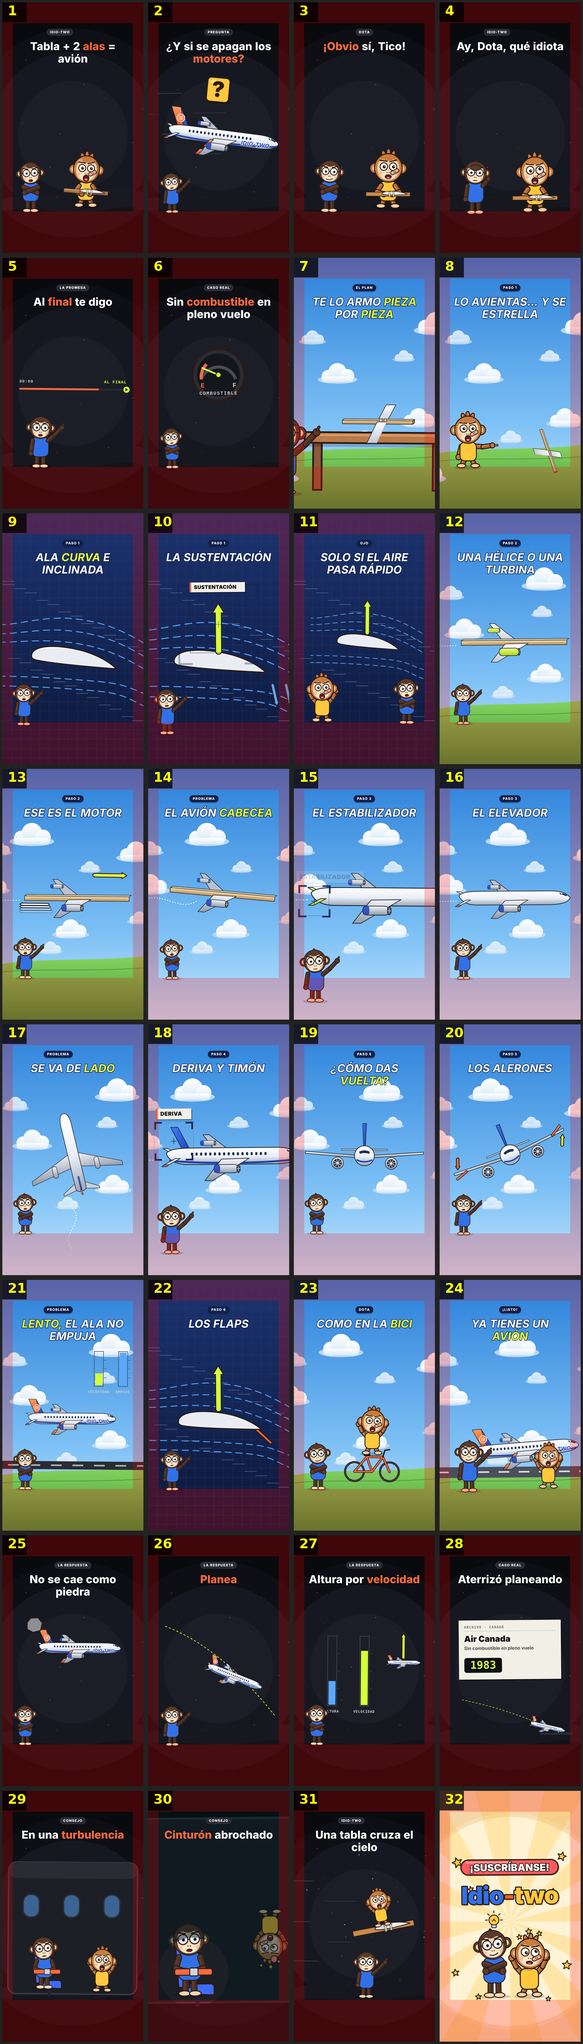
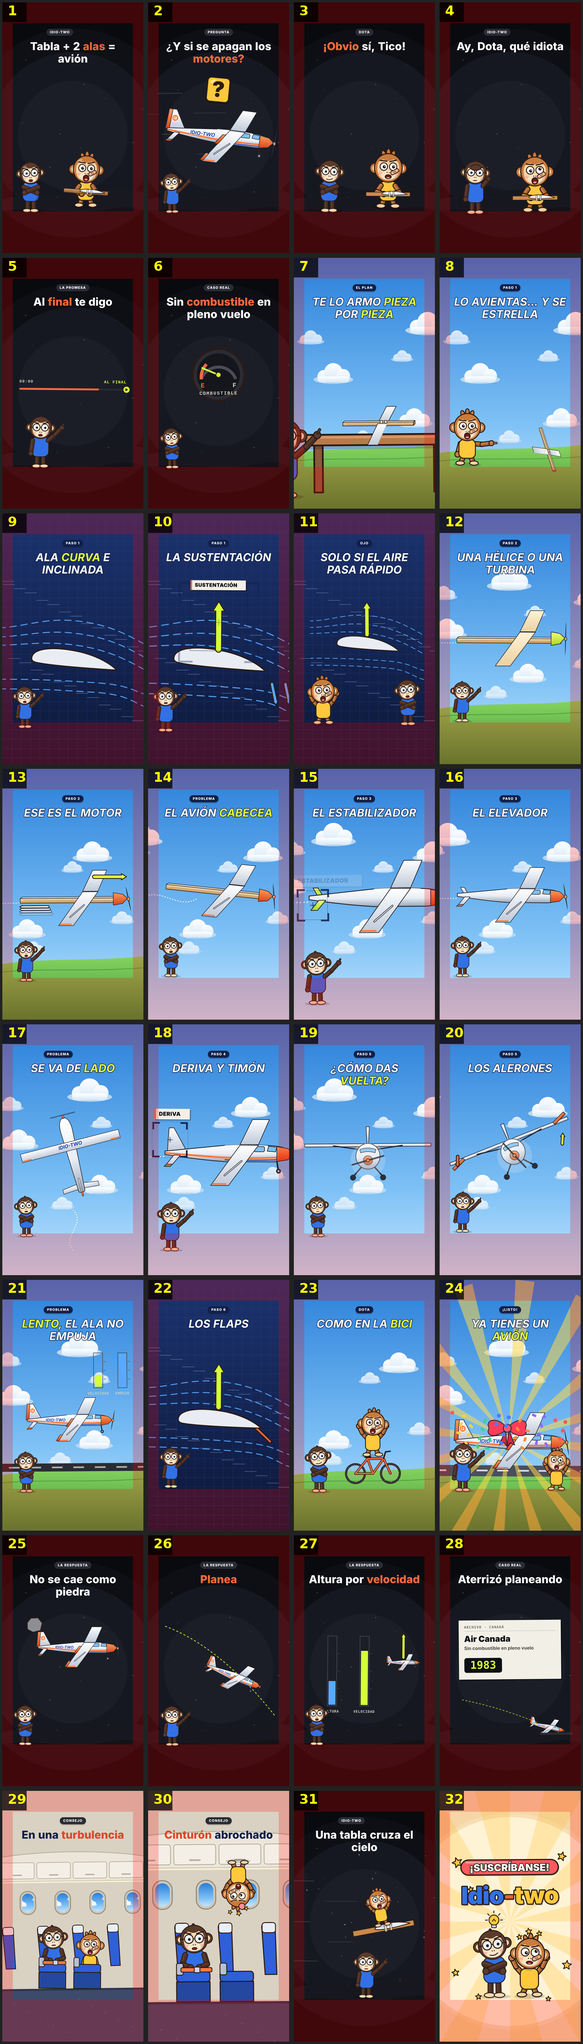
Avion v3: light plane like the reference with IDIO-TWO livery, livelier sky scenes, prize reveal, real cabin with seats
Claude-Session: https://claude.ai/code/session_01CCYL4pfB5svmsfTYwXD8rF

diff --git a/videos/avion/visuals.ts b/videos/avion/visuals.ts
@@ -34,6 +34,7 @@ function vaShade(hex: string, t: number) {
 function vaBackdrop(s: Scene, $: Va$) {
   const sec0 = document.getElementById('sc-' + s.id);   // titles in this style: the key word just changes colour (no box)
   if (sec0) { sec0.style.setProperty('--accent', 'transparent'); sec0.style.setProperty('--accent-text', AVP.orange); sec0.style.setProperty('--label', '#2a2c35'); sec0.style.background = AVP.ink; }
+  if (sec0 && (s.id === 'turbu' || s.id === 'belt')) { sec0.style.setProperty('--ink', '#10204a'); sec0.style.setProperty('--accent-text', '#e0452a'); }
   if (sec0 && VA_SKY.has(s.id)) {   // captions of the sky style: upper case, italic, white with a dark outline, the key word in lime
     sec0.style.setProperty('--accent-text', '#e6ff3a'); sec0.style.setProperty('--label', '#10204a'); sec0.style.background = '#2a7fd9';
     const t = sec0.querySelector('.title') as HTMLElement | null;
@@ -60,6 +61,12 @@ function vaBase(tl: VaTl, s: Scene, $: Va$, burst = true) {
   else if (document.querySelector($('.dust'))) avDust(tl, $, s);
   const i = SCENES.scenes.findIndex((x) => x.id === s.id);
   avCamera(tl, $, s, i % 2 ? 1 : -1);
+  if (VA_SKY.has(s.id)) {
+    const d = s.t1 - s.t0, dir = i % 2 ? 1 : -1;
+    tl.fromTo($('#camP'), { rotation: -2.5 * dir, svgOrigin: '540 1000' }, { rotation: 2.5 * dir, duration: d, ease: 'sine.inOut', immediateRender: false }, s.t0);
+    tl.fromTo($('#cam'), { y: 40 * dir }, { y: -40 * dir, duration: d, ease: 'sine.inOut', immediateRender: false }, s.t0);
+    if (document.querySelector($('#pl'))) tl.fromTo($('#pl'), { x: -70 }, { x: 70, duration: d, ease: 'sine.inOut', immediateRender: false }, s.t0);
+  }
   for (const [id, kind] of [['tk', 'tico'], ['tc', 'tico'], ['d', 'dota'], ['dc', 'dota']] as const) if (document.querySelector($(`#${id}-rig`))) avAlive(tl, $, id, s, kind);
 }
 
@@ -95,7 +102,7 @@ defineVisuals({
     },
   },
   off: {
-    html: () => vaBurst(`${vaStreaks()}<g id="pl">${avLiner('p', 560, 1050, 0.95, AV_LINER_ALL)}</g>${avSmoke('sm', 430, 1110, 0.8, '#5b5e68')}${avQuestion('q', 540, 680, 0.75)}${vaTicoC('point')}`),
+    html: () => vaBurst(`${vaStreaks()}<g id="pl">${avCessna('p', 560, 1050, 0.95, AV_LINER_ALL)}</g>${avSmoke('sm', 430, 1110, 0.8, '#5b5e68')}${avQuestion('q', 540, 680, 0.75)}${vaTicoC('point')}`),
     anim(tl, s, K, $) {
       vaBase(tl, s, $); vaStreakRun(tl, $, s, 1.2); vaBob(tl, $, 'pl', s);
       vaFan(tl, $, '#p-fan, #p-fan2', s.t0, K('off') - s.t0, 10);
@@ -207,17 +214,17 @@ defineVisuals({
     },
   },
   turb: {
-    html: () => vaSky(`${avTrail('tr', 140, 1010)}<g id="pl">${avLiner('p', 560, 1000, 0.95, {}, 0)}</g>${vaTicoC('point')}`, true),
+    html: () => vaSky(`${avTrail('tr', 140, 1010)}<g id="pl">${avCessna('p', 530, 1000, 0.95, {}, 0)}</g>${vaTicoC('point')}`, true),
     anim(tl, s, K, $) {
       vaBase(tl, s, $); avSkyRun(tl, $, s); vaBob(tl, $, 'pl', s, 8);
-      avPaint(tl, $, 'p', 'eng', K('turb') - 0.1, ['engF']); avMorphTo(tl, $, 'p', 1, K('turb') + 0.3);
+      avPaint(tl, $, 'p', 'eng', K('turb') - 0.1); avMorphTo(tl, $, 'p', 1, K('turb') + 0.3);
       tl.fromTo($('#p-fan, #p-fan2'), { rotation: 0, svgOrigin: '0 0' }, { rotation: 3600, duration: s.t1 - K('turb'), ease: 'none' }, K('turb'));
       vaTalk(tl, $, 'tc', s, 'tico');
     },
   },
 
   motor: {
-    html: () => vaSky(`${avTrail('tr', 140, 1010)}<g id="air">${[0, 1, 2, 3].map((i) => avArrow(`ai${i}`, 430 - i * 20, 1040 + i * 18, 220 - i * 30, 1040 + i * 18, '#ffffff', 10)).join('')}</g><g id="pl">${avLiner('p', 560, 1000, 0.95, { eng: true }, 1)}</g>
+    html: () => vaSky(`${avTrail('tr', 140, 1010)}<g id="air">${[0, 1, 2, 3].map((i) => avArrow(`ai${i}`, 430 - i * 20, 1040 + i * 18, 220 - i * 30, 1040 + i * 18, '#ffffff', 10)).join('')}</g><g id="pl">${avCessna('p', 530, 1000, 0.95, { eng: true }, 1)}</g>
       ${avArrow('fwd', 700, 820, 940, 820, '#e6ff3a', 20)}<g id="dg">${avDota('d', 160, 1560, 0.6, 'down')}</g>${vaTicoC('point')}`, true),
     anim(tl, s, K, $) {
       vaBase(tl, s, $); avSkyRun(tl, $, s, 1.4); vaBob(tl, $, 'pl', s, 6);
@@ -231,7 +238,7 @@ defineVisuals({
   },
 
   pitch: {
-    html: () => vaSky(`<path id="wave" d="M-40 1010 C 120 920, 240 1100, 380 1010" fill="none" stroke="#fff" stroke-width="6" stroke-dasharray="4 16" stroke-linecap="round"/><g id="pl">${avLiner('p', 560, 1000, 0.95, { eng: true }, 1)}</g>${vaTicoC()}`),
+    html: () => vaSky(`<path id="wave" d="M-40 1010 C 120 920, 240 1100, 380 1010" fill="none" stroke="#fff" stroke-width="6" stroke-dasharray="4 16" stroke-linecap="round"/><g id="pl">${avCessna('p', 530, 1000, 0.95, { eng: true }, 1)}</g>${vaTicoC()}`),
     anim(tl, s, K, $) {
       vaBase(tl, s, $); avSkyRun(tl, $, s); tl.fromTo($('#p-fan, #p-fan2'), { rotation: 0, svgOrigin: '0 0' }, { rotation: 7200, duration: s.t1 - s.t0, ease: 'none' }, s.t0);
       tl.fromTo($('#p-body'), { rotation: -14, svgOrigin: '0 0' }, { rotation: 14, duration: 0.55, ease: 'sine.inOut', yoyo: true, repeat: Math.ceil((s.t1 - s.t0) / 0.55) }, s.t0);
@@ -242,7 +249,7 @@ defineVisuals({
   },
 
   stab: {
-    html: () => vaSky(`${avTrail('tr', 140, 1010)}<g id="pl">${avLiner('p', 560, 1000, 0.95, { eng: true }, 1)}</g>${vaTicoC('point')}`),
+    html: () => vaSky(`${avTrail('tr', 140, 1010)}<g id="pl">${avCessna('p', 530, 1000, 0.95, { eng: true }, 1)}</g>${vaTicoC('point')}`),
     anim(tl, s, K, $) {
       vaBase(tl, s, $); avSkyRun(tl, $, s); tl.fromTo($('#p-fan, #p-fan2'), { rotation: 0, svgOrigin: '0 0' }, { rotation: 7200, duration: s.t1 - s.t0, ease: 'none' }, s.t0);
       tl.fromTo($('#p-body'), { rotation: -12, svgOrigin: '0 0' }, { rotation: 12, duration: 0.55, ease: 'sine.inOut', yoyo: true, repeat: Math.ceil((K('stab') - s.t0) / 0.55) }, s.t0);
@@ -253,7 +260,7 @@ defineVisuals({
   },
 
   elev: {
-    html: () => vaSky(`${avTrail('tr', 140, 1010)}<g id="pl">${avLiner('p', 560, 1000, 0.95, { eng: true, stab: true }, 2)}</g>${vaTicoC('point')}`),
+    html: () => vaSky(`${avTrail('tr', 140, 1010)}<g id="pl">${avCessna('p', 530, 1000, 0.95, { eng: true, stab: true }, 2)}</g>${vaTicoC('point')}`),
     anim(tl, s, K, $) {
       vaBase(tl, s, $); avSkyRun(tl, $, s); tl.fromTo($('#p-fan, #p-fan2'), { rotation: 0, svgOrigin: '0 0' }, { rotation: 7200, duration: s.t1 - s.t0, ease: 'none' }, s.t0);
       avPaint(tl, $, 'p', 'elev', s.t0 + 0.2); avMorphTo(tl, $, 'p', 3, s.t0 + 0.6);
@@ -265,7 +272,7 @@ defineVisuals({
   },
 
   yaw: {
-    html: () => vaSky(`<path id="tw" d="M540 1700 C 440 1600, 640 1500, 540 1400" fill="none" stroke="#fff" stroke-width="6" stroke-dasharray="4 16" stroke-linecap="round"/>${avLinerTop('pt', 540, 1000, 0.8)}${vaTicoC()}`),
+    html: () => vaSky(`<path id="tw" d="M540 1700 C 440 1600, 640 1500, 540 1400" fill="none" stroke="#fff" stroke-width="6" stroke-dasharray="4 16" stroke-linecap="round"/>${avCessnaTop('pt', 540, 1000, 0.8)}${vaTicoC()}`),
     anim(tl, s, K, $) {
       vaBase(tl, s, $); avSkyRun(tl, $, s, 0.6);
       tl.fromTo($('#pt-body'), { rotation: -14, svgOrigin: '0 0' }, { rotation: 14, duration: 0.42, ease: 'sine.inOut', yoyo: true, repeat: Math.ceil((s.t1 - s.t0) / 0.42) }, s.t0);
@@ -276,7 +283,7 @@ defineVisuals({
   },
 
   fin: {
-    html: () => vaSky(`${avTrail('tr', 140, 1010)}<g id="pl">${avLiner('p', 560, 1000, 0.95, { eng: true, stab: true, elev: true }, 3)}</g>
+    html: () => vaSky(`${avTrail('tr', 140, 1010)}<g id="pl">${avCessna('p', 530, 1000, 0.95, { eng: true, stab: true, elev: true }, 3)}</g>
       <g id="shark" opacity="0"><path d="M770 1480 L860 1340 L880 1480Z" fill="#5b6a80" stroke="${AV.o}" stroke-width="6" stroke-linejoin="round"/><path d="M740 1490 q 30 -12 60 0 q 30 12 60 0 q 30 -12 60 0" fill="none" stroke="#fff" stroke-width="6"/></g>${vaTicoC('point')}`),
     anim(tl, s, K, $) {
       vaBase(tl, s, $); avSkyRun(tl, $, s); tl.fromTo($('#p-fan, #p-fan2'), { rotation: 0, svgOrigin: '0 0' }, { rotation: 7200, duration: s.t1 - s.t0, ease: 'none' }, s.t0);
@@ -289,7 +296,7 @@ defineVisuals({
   },
 
   roll: {
-    html: () => vaSky(`<g id="pl">${avLinerFront('pf', 540, 1000, 1, {})}</g>${vaTicoC()}`),
+    html: () => vaSky(`<g id="pl">${avCessnaFront('pf', 540, 1000, 1, {})}</g>${vaTicoC()}`),
     anim(tl, s, K, $) {
       vaBase(tl, s, $); avSkyRun(tl, $, s); vaBob(tl, $, 'pl', s, 8);
       vaFan(tl, $, '#pf-fan0', s.t0, s.t1 - s.t0, 10); vaFan(tl, $, '#pf-fan1', s.t0, s.t1 - s.t0, 10);
@@ -298,12 +305,12 @@ defineVisuals({
     },
   },
   ail: {
-    html: () => vaSky(`<g id="pl">${avLinerFront('pf', 540, 1000, 1, { ail: true })}</g>${avArrow('upA', 930, 930, 930, 850, '#e6ff3a', 14)}${avArrow('dnA', 150, 1030, 150, 1110, AVP.orange, 14)}${vaTicoC('point')}`),
+    html: () => vaSky(`<g id="pl">${avCessnaFront('pf', 540, 1000, 1, { ail: true })}</g>${avArrow('upA', 930, 930, 930, 850, '#e6ff3a', 14)}${avArrow('dnA', 150, 1030, 150, 1110, AVP.orange, 14)}${vaTicoC('point')}`),
     anim(tl, s, K, $) {
       vaBase(tl, s, $); avSkyRun(tl, $, s);
       vaFan(tl, $, '#pf-fan0', s.t0, s.t1 - s.t0, 12); vaFan(tl, $, '#pf-fan1', s.t0, s.t1 - s.t0, 12);
-      tl.to($('#pf-ailR'), { rotation: -24, svgOrigin: '340 -10', duration: 0.3, ease: 'power2.out' }, K('up') - 0.1);
-      tl.to($('#pf-ailL'), { rotation: -24, svgOrigin: '-340 -10', duration: 0.3, ease: 'power2.out' }, K('up') + 0.6);
+      tl.to($('#pf-ailR'), { rotation: -24, svgOrigin: '360 -93', duration: 0.3, ease: 'power2.out' }, K('up') - 0.1);
+      tl.to($('#pf-ailL'), { rotation: -24, svgOrigin: '-360 -93', duration: 0.3, ease: 'power2.out' }, K('up') + 0.6);
       avPopIn(tl, $('#upA'), K('up') + 0.1); avPopIn(tl, $('#dnA'), K('up') + 0.8);
       tl.to($('#pf-body'), { rotation: -22, svgOrigin: '0 0', duration: 0.9, ease: 'power2.inOut' }, K('bank') - 0.2);
       vaTalk(tl, $, 'tc', s, 'tico');
@@ -311,7 +318,7 @@ defineVisuals({
   },
   slow: {
     html: () => vaSky(`<rect x="0" y="1380" width="1080" height="60" fill="#2a2c35"/>${[...Array(7)].map((_, i) => `<rect x="${60 + i * 160}" y="1404" width="80" height="12" fill="#e8e6dc" opacity="0.7"/>`).join('')}
-      <g id="pl">${avLiner('p', 520, 1000, 0.75, AV_LINER_ALL)}</g>${avBar('bv', 730, 820, 'VELOCIDAD', AVP.lime, 260)}${avBar('bl', 910, 820, 'EMPUJE', AVP.air, 260)}${vaTicoC()}`, true),
+      <g id="pl">${avCessna('p', 520, 1000, 0.75, AV_LINER_ALL)}</g>${avBar('bv', 730, 820, 'VELOCIDAD', AVP.lime, 260)}${avBar('bl', 910, 820, 'EMPUJE', AVP.air, 260)}${vaTicoC()}`, true),
     anim(tl, s, K, $) {
       vaBase(tl, s, $);
       tl.fromTo($('#p-fan, #p-fan2'), { rotation: 0, svgOrigin: '0 0' }, { rotation: 1800, duration: s.t1 - s.t0, ease: 'none' }, s.t0); avSkyRun(tl, $, s, 0.5);
@@ -344,24 +351,30 @@ defineVisuals({
     },
   },
   felicidades: {
+    // the finished plane is presented like a prize: zoom in, golden rays, confetti and a giant bow; then back to Tico and Dota amazed
     html: () => vaSky(`<rect x="-40" y="1420" width="1160" height="80" fill="#4a4f5c"/>${[...Array(8)].map((_, i) => `<rect x="${i * 150}" y="1452" width="80" height="12" fill="#fff" opacity="0.8"/>`).join('')}
-      <g id="bigM">${avLiner('al', 0, 0, 0.9, AV_LINER_ALL)}</g><circle id="glow" cx="520" cy="1290" r="460" fill="#fff" opacity="0"/>
-      ${avTico('tk', 230, 1600, 0.6, 'point')}${avDota('d', 820, 1600, 0.68, 'up')}`, true),
+      <g id="rayG" opacity="0">${avRays('rays', 530, 1230)}</g><g id="pl">${avCessna('al', 530, 1260, 0.95, AV_LINER_ALL)}</g><g id="bowG" opacity="0">${avBow('bow', 520, 1150, 1.1)}</g>
+      ${avConfetti()}<g id="pz">${avMark('prize', 530, 1230, 300, '', '#ffd84a')}</g>
+      ${avTico('tk', 200, 1620, 0.55, 'point')}${avDota('d', 880, 1620, 0.62, 'up')}`, true),
     anim(tl, s, K, $) {
-      vaBase(tl, s, $); avSkyRun(tl, $, s, 0.6);
-      tl.fromTo($('#al-fan, #al-fan2'), { rotation: 0, svgOrigin: '0 0' }, { rotation: 7200, duration: s.t1 - s.t0, ease: 'none' }, s.t0);
-      vaMove(tl, $, '#bigM', [460, 1340, 0], [460, 1340, 0], s.t0, 0.05);
-      ['eng', 'engF', 'stab', 'stabF', 'elev', 'fin', 'rud', 'ail', 'flap'].forEach((pp, i) => { tl.set($(`#al-${pp}Hi`), { opacity: 1 }, K('glow') - 0.6 + i * 0.07); tl.to($(`#al-${pp}Hi`), { opacity: 0, duration: 0.5 }, K('glow') + 0.6 + i * 0.05); });
-      tl.fromTo($('#glow'), { opacity: 0, scale: 0.3, svgOrigin: '520 1290' }, { keyframes: [{ opacity: 0.8, scale: 1, duration: 0.4, ease: 'power2.out' }, { opacity: 0, scale: 1.4, duration: 0.6, ease: 'power1.in' }] }, K('glow'));
-      vaMove(tl, $, '#bigM', [460, 1340, 0], [640, 1300, -4], K('glow') + 0.4, K('wow') - K('glow') - 0.4, 'power1.in');
-      vaMove(tl, $, '#bigM', [640, 1300, -4], [1500, 700, -16], K('wow'), s.t1 - K('wow'), 'power1.in');
-      avHop(tl, $('#d'), K('wow') - 0.1, 3, 30);
+      vaBase(tl, s, $); avSkyRun(tl, $, s, 0.4);
+      tl.fromTo($('#al-fan'), { rotation: 0, svgOrigin: '0 0' }, { rotation: 7200, duration: s.t1 - s.t0, ease: 'none' }, s.t0);
+      avZoom(tl, $, 530, 1230, 1.55, K('glow') - 0.3, K('wow') - K('glow') + 0.2);
+      tl.set($('#rayG'), { opacity: 1 }, K('glow')); tl.fromTo($('#rays'), { rotation: 0, scale: 0.2, svgOrigin: '0 0' }, { rotation: 60, scale: 1, duration: s.t1 - K('glow'), ease: 'power1.out', immediateRender: false }, K('glow'));
+      ['eng', 'stab', 'stabF', 'elev', 'fin', 'rud', 'ail', 'flap'].forEach((pp, i) => { tl.set($(`#al-${pp}Hi`), { opacity: 1 }, K('glow') - 0.4 + i * 0.06); tl.to($(`#al-${pp}Hi`), { opacity: 0, duration: 0.5 }, K('glow') + 0.6 + i * 0.05); });
+      tl.set($('#bowG'), { opacity: 1 }, K('glow') + 0.25); tl.fromTo($('#bowG'), { y: -700, rotation: -20, svgOrigin: '520 1150' }, { y: 0, rotation: 0, duration: 0.5, ease: 'bounce.out', immediateRender: false }, K('glow') + 0.25);
+      tl.fromTo($('#confetti .bit'), { y: -500, opacity: 0 }, { y: 520, opacity: 1, duration: 1.6, ease: 'power1.in', stagger: 0.02, immediateRender: false }, K('glow') + 0.1);
+      tl.set($('#confetti .bit'), { opacity: 0 }, s.t0);
+      avMarkIn(tl, $, 'prize', 530, 1230, K('glow') + 0.2, 1.4, false);
+      tl.fromTo($('#al-body'), { y: 0 }, { y: -16, duration: 0.3, yoyo: true, repeat: 5, ease: 'sine.inOut' }, K('glow') + 0.4);
+      avHop(tl, $('#d'), K('wow') - 0.1, 4, 34); avHop(tl, $('#tk'), K('wow'), 2, 18);
       vaTalk(tl, $, 'tk', s, 'tico'); vaTalk(tl, $, 'd', s, 'dota');
     },
   },
 
+
   rock: {
-    html: () => vaBurst(`<g id="pl">${avLiner('p', 580, 880, 0.7, AV_LINER_ALL)}</g>${avRock('rk', 250, 700, 0.9)}<line id="rkLine" x1="250" y1="760" x2="250" y2="1500" stroke="#8d8f96" stroke-width="4" stroke-dasharray="12 12" opacity="0"/>${avSmoke('sm', 500, 940, 0.6, '#5b5e68')}${vaTicoC()}`),
+    html: () => vaBurst(`<g id="pl">${avCessna('p', 580, 880, 0.7, AV_LINER_ALL)}</g>${avRock('rk', 250, 700, 0.9)}<line id="rkLine" x1="250" y1="760" x2="250" y2="1500" stroke="#8d8f96" stroke-width="4" stroke-dasharray="12 12" opacity="0"/>${avSmoke('sm', 500, 940, 0.6, '#5b5e68')}${vaTicoC()}`),
     anim(tl, s, K, $) {
       vaBase(tl, s, $); vaBob(tl, $, 'pl', s, 8);
       vaFan(tl, $, '#p-fan, #p-fan2', s.t0, K('off') - s.t0, 6); tl.to($('#p-fan, #p-fan2'), { rotation: '+=160', duration: 1.4, ease: 'power3.out' }, K('off'));
@@ -371,7 +384,7 @@ defineVisuals({
     },
   },
   glide: {
-    html: () => vaBurst(`<path id="path" d="M140 700 Q 560 860 960 1380" fill="none" stroke="${AVP.lime}" stroke-width="6" stroke-dasharray="16 14" opacity="0.8"/><g id="pl">${avLiner('p', 0, 0, 0.5, AV_LINER_ALL)}</g>${vaTicoC('point')}`),
+    html: () => vaBurst(`<path id="path" d="M140 700 Q 560 860 960 1380" fill="none" stroke="${AVP.lime}" stroke-width="6" stroke-dasharray="16 14" opacity="0.8"/><g id="pl">${avCessna('p', 0, 0, 0.5, AV_LINER_ALL)}</g>${vaTicoC('point')}`),
     anim(tl, s, K, $) {
       vaBase(tl, s, $);
       tl.fromTo($('#path'), { strokeDashoffset: 0 }, { strokeDashoffset: -200, duration: s.t1 - s.t0, ease: 'none' }, s.t0);
@@ -380,7 +393,7 @@ defineVisuals({
     },
   },
   trade: {
-    html: () => vaBurst(`${avBar('ba', 300, 1300, 'ALTURA', AVP.air, 520)}${avBar('bs', 540, 1300, 'VELOCIDAD', AVP.lime, 520)}<g id="mini">${avLiner('pm', 830, 900, 0.28, AV_LINER_ALL)}${avArrow('liftM', 830, 860, 830, 680, AVP.lime, 16)}</g>${vaTicoC()}`),
+    html: () => vaBurst(`${avBar('ba', 300, 1300, 'ALTURA', AVP.air, 520)}${avBar('bs', 540, 1300, 'VELOCIDAD', AVP.lime, 520)}<g id="mini">${avCessna('pm', 830, 900, 0.28, AV_LINER_ALL)}${avArrow('liftM', 830, 860, 830, 680, AVP.lime, 16)}</g>${vaTicoC()}`),
     anim(tl, s, K, $) {
       vaBase(tl, s, $);
       tl.set($('#bs-fill'), { scaleY: 0.55, svgOrigin: '0 1292' }, s.t0);
@@ -391,7 +404,7 @@ defineVisuals({
     },
   },
   canada: {
-    html: () => vaBurst(`${avDossier('ds', 540, 880, 'ARCHIVO · CANADÁ', 'Air Canada', '1983', 'Sin combustible en pleno vuelo')}<path id="gpath" d="M180 1250 Q 560 1330 900 1500" fill="none" stroke="${AVP.lime}" stroke-width="5" stroke-dasharray="14 12" opacity="0.7"/><g id="gp">${avLiner('pg', 0, 0, 0.3, AV_LINER_ALL)}</g><rect x="760" y="1500" width="240" height="16" fill="#2a2c35"/>`),
+    html: () => vaBurst(`${avDossier('ds', 540, 880, 'ARCHIVO · CANADÁ', 'Air Canada', '1983', 'Sin combustible en pleno vuelo')}<path id="gpath" d="M180 1250 Q 560 1330 900 1500" fill="none" stroke="${AVP.lime}" stroke-width="5" stroke-dasharray="14 12" opacity="0.7"/><g id="gp">${avCessna('pg', 0, 0, 0.3, AV_LINER_ALL)}</g><rect x="760" y="1500" width="240" height="16" fill="#2a2c35"/>`),
     anim(tl, s, K, $) {
       vaBase(tl, s, $);
       tl.set($('#ds'), { opacity: 0 }, s.t0); tl.fromTo($('#ds'), { opacity: 0, y: 140, rotation: -3, transformOrigin: '50% 50%' }, { opacity: 1, y: 0, rotation: 0, duration: 0.5, ease: 'power3.out', immediateRender: false }, K('card') - 0.15);
@@ -401,32 +414,40 @@ defineVisuals({
     },
   },
   turbu: {
-    html: () => vaBurst(`<g id="cabin"><rect x="60" y="560" width="960" height="980" rx="60" fill="#1d1f27" stroke="#3a3c46" stroke-width="10"/><rect x="60" y="560" width="960" height="120" rx="60" fill="#2a2c35"/>
-      ${[0, 1, 2].map((i) => `<rect x="${170 + i * 300}" y="800" width="120" height="170" rx="56" fill="#5aa9ff" opacity="0.5" stroke="#3a3c46" stroke-width="10"/>`).join('')}</g>
-      ${avSeat('st', 380, 1500, 1)}${avTico('tk', 330, 1500, 0.62, 'hold')}<rect x="250" y="1360" width="200" height="34" rx="10" fill="${AVP.orange}" stroke="${AV.o}" stroke-width="5"/><rect x="330" y="1356" width="44" height="42" rx="6" fill="#cfd4dd" stroke="${AV.o}" stroke-width="5"/>
-      <g id="dg">${avDota('d', 760, 1520, 0.7, 'up')}</g>${avBoom('bm', 760, 760, 0.5)}`),
+    bg: '#d9d1c2', ink: '#10204a',
+    // inside the plane: rows of seats, windows with sky; Tico buckled, Dota sitting without a belt bonks the bins
+    html: () => svg(`<g id="cam"><g id="camP"><g id="camZ"><g id="cabin">${avCabin(4)}</g>
+      ${avTico('tk', 400, 1420, 0.62, 'hold')}${avSeatFront(1, true, 'beltT')}
+      <g id="dg">${avDota('d', 670, 1400, 0.68, 'down')}</g>${avSeatFront(2, false)}${avBoom('bm', 670, 700, 0.5)}</g></g></g>`, AV_SKY_DEFS),
     anim(tl, s, K, $) {
-      vaBase(tl, s, $);
-      tl.fromTo($('#cabin, #st'), { x: -6, y: 0 }, { x: 6, y: 4, duration: 0.07, yoyo: true, repeat: Math.ceil((s.t1 - K('shake')) / 0.07), ease: 'none', immediateRender: false }, K('shake'));
-      tl.to($('#dg'), { y: -520, rotation: 180, svgOrigin: '760 1300', duration: 0.45, ease: 'power3.in' }, K('bonk') - 0.45);
+      vaBase(tl, s, $, false);
+      tl.fromTo($('.winSky'), { x: 60 }, { x: -120, duration: s.t1 - s.t0, ease: 'none' }, s.t0);
+      tl.fromTo($('#cabin, #seatBacks'), { rotation: -1.5, svgOrigin: '540 1200' }, { rotation: 1.5, duration: 0.09, yoyo: true, repeat: Math.ceil((s.t1 - K('shake')) / 0.09), ease: 'none', immediateRender: false }, K('shake'));
+      tl.fromTo($('#tk, #dg'), { y: 0 }, { y: -10, duration: 0.09, yoyo: true, repeat: Math.ceil((K('bonk') - K('shake')) / 0.09), ease: 'none', immediateRender: false }, K('shake'));
+      tl.to($('#dg'), { y: -560, rotation: 180, svgOrigin: '670 1240', duration: 0.45, ease: 'power3.in' }, K('bonk') - 0.45);
       avFlash(tl, $('#bm'), K('bonk'), 0.35);
       tl.set($('#d-bump'), { opacity: 1 }, K('bonk')); avDizzy(tl, $, 'd', K('bonk'), s.t1);
       vaTalk(tl, $, 'tk', s, 'tico');
     },
   },
+
   belt: {
-    html: () => vaBurst(`<rect x="60" y="560" width="960" height="980" rx="60" fill="#1d1f27" stroke="#3a3c46" stroke-width="10"/>
-      ${avSeat('st', 380, 1500, 1)}${avTico('tk', 330, 1500, 0.62, 'hold')}<g id="beltL"><rect x="250" y="1360" width="100" height="34" rx="10" fill="${AVP.orange}" stroke="${AV.o}" stroke-width="5"/></g><g id="beltR"><rect x="350" y="1360" width="100" height="34" rx="10" fill="${AVP.orange}" stroke="${AV.o}" stroke-width="5"/><rect x="330" y="1356" width="44" height="42" rx="6" fill="#cfd4dd" stroke="${AV.o}" stroke-width="5"/></g>
-      <g id="dg" transform="rotate(180 760 1250)">${avDota('d', 760, 1450, 0.6, 'up')}</g>`, avSpot(350, 1380, 260)),
+    bg: '#d9d1c2', ink: '#10204a',
+    html: () => svg(`<g id="cam"><g id="camP"><g id="camZ">${avCabin(4)}
+      ${avTico('tk', 400, 1420, 0.62, 'hold')}${avSeatFront(1, false)}<g id="beltL"><rect x="316" y="1296" width="96" height="26" rx="8" fill="#ff7a3d" stroke="${AV.o}" stroke-width="5"/></g><g id="beltR"><rect x="412" y="1296" width="90" height="26" rx="8" fill="#ff7a3d" stroke="${AV.o}" stroke-width="5"/><rect x="396" y="1292" width="34" height="34" rx="6" fill="#cfd4dd" stroke="${AV.o}" stroke-width="5"/></g>
+      ${avSeatFront(2, false)}<g id="dg"><g transform="rotate(180 670 1030)">${avDota('d', 670, 1400, 0.62, 'up')}</g></g></g></g></g>`, AV_SKY_DEFS),
     anim(tl, s, K, $) {
-      vaBase(tl, s, $);
+      vaBase(tl, s, $, false);
+      tl.fromTo($('.winSky'), { x: 40 }, { x: -100, duration: s.t1 - s.t0, ease: 'none' }, s.t0);
       tl.set($('#d-bump'), { opacity: 1 }, s.t0); avDizzy(tl, $, 'd', s.t0, s.t1);
-      tl.fromTo($('#beltL'), { x: -120 }, { x: 0, duration: 0.3, ease: 'power3.out' }, K('click') - 0.3);
-      tl.fromTo($('#beltR'), { x: 120 }, { x: 0, duration: 0.3, ease: 'power3.out' }, K('click') - 0.3);
-      avFocus(tl, $, 350, 1380, 1.4, K('click') - 0.5, 0.8);
+      tl.fromTo($('#dg'), { x: -6 }, { x: 6, duration: 0.4, yoyo: true, repeat: Math.ceil((s.t1 - s.t0) / 0.4), ease: 'sine.inOut' }, s.t0);
+      tl.fromTo($('#beltL'), { x: -120, rotation: -20, svgOrigin: '316 1309' }, { x: 0, rotation: 0, duration: 0.3, ease: 'power3.out' }, K('click') - 0.3);
+      tl.fromTo($('#beltR'), { x: 120, rotation: 20, svgOrigin: '502 1309' }, { x: 0, rotation: 0, duration: 0.3, ease: 'power3.out' }, K('click') - 0.3);
+      avZoom(tl, $, 560, 1100, 1.25, K('click') - 0.5, 0.9);
       vaTalk(tl, $, 'tk', s, 'tico');
     },
   },
+
   sub: {
     bg: AV.bg1, ink: AV.navy,
     // the banner: stars around, "¡SUSCRÍBANSE!" over the Idio-two logo, Tico (idea bulb, arms crossed) and Dota (arms up, dizzy stars)

diff --git a/videos/avion/world.ts b/videos/avion/world.ts
@@ -660,7 +660,7 @@ function avSky(ground = false) {
 }
 // clouds drift (far slow, near fast) — the plane flies right
 function avSkyRun(tl: gsap.core.Timeline, $: (q: string) => string, s: Scene, speed = 1) {
-  const d = s.t1 - s.t0;
+  const d = s.t1 - s.t0; speed *= 1.7;
   tl.fromTo($('#cl1'), { x: 0 }, { x: -120 * speed * d / 3, duration: d, ease: 'none' }, s.t0);
   tl.fromTo($('#cl2'), { x: 0 }, { x: -300 * speed * d / 3, duration: d, ease: 'none' }, s.t0);
   tl.fromTo($('#cl3'), { x: 0 }, { x: -600 * speed * d / 3, duration: d, ease: 'none' }, s.t0);
@@ -779,8 +779,90 @@ function avLinerTop(id: string, x: number, y: number, s = 1) {
 
 // turns the board plane one stage further into the airliner (crossfade + a little sparkle), at t
 function avMorphTo(tl: gsap.core.Timeline, $: (q: string) => string, id: string, stage: number, t: number) {
-  const show: Record<number, string[]> = { 1: ['farW', 'nearW'], 2: ['tube'], 3: ['cock'], 4: ['wins'], 5: ['livery'] }, hide: Record<number, string[]> = { 1: ['farB', 'nearB'], 2: ['plank'] };
+  const show: Record<number, string[]> = { 1: ['farW', 'nearW', 'strut'], 2: ['tube'], 3: ['wins', 'cock'], 4: ['stripe', 'gear'], 5: ['livery'] }, hide: Record<number, string[]> = { 1: ['farB', 'nearB'], 2: ['plank'] };
   for (const k of show[stage] || []) tl.fromTo($(`#${id}-${k}`), { opacity: 0 }, { opacity: 1, duration: 0.45, ease: 'power1.out', immediateRender: false }, t);
   for (const k of hide[stage] || []) tl.to($(`#${id}-${k}`), { opacity: 0, duration: 0.45, ease: 'power1.in' }, t);
   tl.fromTo($(`#${id}-body`), { scaleX: 1, scaleY: 1, svgOrigin: '0 0' }, { keyframes: [{ scaleX: 1.04, scaleY: 0.96, duration: 0.12 }, { scaleX: 0.98, scaleY: 1.03, duration: 0.12 }, { scaleX: 1, scaleY: 1, duration: 0.12 }], immediateRender: false }, t);
+}
+
+// =====================================================================
+//  The light plane of the user's reference (high wing, propeller, struts, landing gear) with the IDIO-TWO livery.
+//  Side view (nose right). stage 0 board … 5 finished plane (same stages as avMorphTo):
+//  1 cowling + real wings · 2 the plank becomes the fuselage · 3 windows · 4 stripe + landing gear · 5 livery
+//  Parts (avPaint): eng (cowling + prop), stab (+stabF), elev, fin, rud, ail, flap. Prop rotor: #id-fan.
+// =====================================================================
+function avCessna(id: string, x: number, y: number, s = 1, o: AvLinerOpts = {}, stage = 5) {
+  const O = '#22252e', poly = (pts: number[][], fill: string) => `<path d="M${pts.map((p) => p.join(' ')).join(' L')}Z" fill="${fill}" stroke="${O}" stroke-width="4" stroke-linejoin="round"/>`;
+  const P = (pid: string, on: boolean, pts: number[][], fill: string) => `<g id="${id}-${pid}"${avVis(on)}><g id="${id}-${pid}M">${poly(pts, fill)}<g id="${id}-${pid}Hi" opacity="0">${poly(pts, 'url(#gLime)')}</g></g></g>`;
+  const farW = [[180, -72], [60, -72], [140, -236], [250, -236]], nearW = [[180, -68], [60, -68], [-130, 196], [-14, 196]];
+  const body = 'M380 -20 C 380 -50, 330 -62, 260 -66 L 120 -72 L -40 -66 C -200 -50, -360 -32, -430 -26 L -430 -4 C -360 6, -200 30, -40 40 L 260 40 C 330 40, 380 20, 380 -20Z';
+  const blade = `<path d="M-12 0 C -14 -50, -6 -112, 0 -124 C 6 -112, 14 -50, 12 0Z" fill="#2b2f3a"/>`;
+  return `<g id="${id}"><g transform="translate(${x} ${y}) scale(${s})"><g id="${id}-body">
+    ${P('stabF', !!o.stab, [[-344, -22], [-376, -74], [-406, -74], [-376, -22]], 'url(#gW)')}
+    <g id="${id}-farW"${avVis(stage >= 1)}>${poly(farW, 'url(#gW)')}</g><g id="${id}-farB"${avVis(stage < 1)}>${poly(farW, 'url(#gWoodTop)')}</g>
+    ${P('fin', !!o.fin, [[-290, -30], [-372, -178], [-404, -178], [-414, -24]], 'url(#gW)')}${P('rud', !!o.rud, [[-404, -178], [-432, -178], [-444, -18], [-414, -24]], 'url(#gOr)')}
+    <g id="${id}-gear"${avVis(stage >= 4)}><path d="M60 36 L30 100 M300 30 L310 92" stroke="${O}" stroke-width="10" stroke-linecap="round"/><circle cx="26" cy="108" r="22" fill="#2b2f3a"/><circle cx="26" cy="108" r="9" fill="#cfd4dd"/><circle cx="312" cy="100" r="16" fill="#2b2f3a"/><circle cx="312" cy="100" r="6" fill="#cfd4dd"/></g>
+    <g id="${id}-plank"${avVis(stage < 2)}>${poly([[-430, -18], [380, -18], [396, -30], [-414, -30]], 'url(#gWoodTop)')}${poly([[-430, -18], [380, -18], [380, 18], [-430, 18]], 'url(#gWood)')}<path d="M-400 0 C -100 -4, 100 6, 370 0" stroke="#a87a3e" stroke-width="3" fill="none" opacity="0.6"/></g>
+    <g id="${id}-tube"${avVis(stage >= 2)}><path d="${body}" fill="url(#gBody)" stroke="${O}" stroke-width="5"/><path d="M240 -64 C 150 -70, 60 -70, -40 -64" stroke="#fff" stroke-width="6" fill="none" opacity="0.8"/></g>
+    <g id="${id}-wins"${avVis(stage >= 3)}><path d="M246 -62 L300 -56 L292 -26 L238 -30Z" fill="#7cc0f5" stroke="${O}" stroke-width="4"/><rect x="150" y="-60" width="70" height="34" rx="10" fill="#7cc0f5" stroke="${O}" stroke-width="4"/><rect x="70" y="-60" width="66" height="34" rx="10" fill="#7cc0f5" stroke="${O}" stroke-width="4"/><path d="M80 -56 L120 -56" stroke="#fff" stroke-width="4" opacity="0.7"/></g>
+    <g id="${id}-stripe"${avVis(stage >= 4)}><path d="M372 4 C 300 16, 100 18, -40 14 C -200 4, -350 -8, -428 -14" stroke="#ff7a3d" stroke-width="12" fill="none"/><path d="M372 20 C 300 30, 100 32, -40 28" stroke="#1b3fb0" stroke-width="6" fill="none"/></g>
+    <g id="${id}-livery"${avVis(stage >= 5)}><text x="-150" y="-2" text-anchor="middle" font-size="40" font-weight="900" font-style="italic" fill="#1b3fb0" stroke="#fff" stroke-width="6" paint-order="stroke" style="font-family: var(--font), system-ui, sans-serif">IDIO-TWO</text>
+      <g transform="translate(-378 -110)"><circle r="26" fill="#ff7a3d" stroke="#fff" stroke-width="5"/><text x="0" y="11" text-anchor="middle" font-size="30" font-weight="900" fill="#fff" style="font-family: var(--font), system-ui, sans-serif">i2</text></g></g>
+    <g id="${id}-nearW"${avVis(stage >= 1)}>${poly(nearW, 'url(#gW)')}<path d="M-120 186 L-28 186" stroke="#ff7a3d" stroke-width="10"/></g><g id="${id}-nearB"${avVis(stage < 1)}>${poly(nearW, 'url(#gWoodTop)')}</g>
+    <g id="${id}-strut"${avVis(stage >= 1)}><path d="M70 36 L-40 130" stroke="${O}" stroke-width="12" stroke-linecap="round"/><path d="M70 36 L-40 130" stroke="#cfd4dd" stroke-width="6" stroke-linecap="round"/></g>
+    ${P('flap', !!o.flap, [[33, -29], [-21, 48], [-47, 48], [7, -29]], 'url(#gOr)')}${P('ail', !!o.ail, [[-80, 130], [-120, 190], [-146, 190], [-106, 130]], 'url(#gOr)')}
+    ${P('stab', !!o.stab, [[-330, 0], [-380, 60], [-420, 60], [-372, 0]], 'url(#gW)')}${P('elev', !!o.elev, [[-380, 60], [-420, 60], [-436, 74], [-396, 74]], 'url(#gOr)')}
+    <g id="${id}-eng"${avVis(!!o.eng)}><g id="${id}-engM">${poly([[300, -60], [372, -48], [410, -16], [372, 26], [300, 38]], 'url(#gOr)')}<g id="${id}-engHi" opacity="0">${poly([[300, -60], [372, -48], [410, -16], [372, 26], [300, 38]], 'url(#gLime)')}</g>
+      <g transform="translate(418 -10) scale(0.26 1)"><g id="${id}-fan">${blade}<g transform="rotate(180)">${blade}</g></g></g><g id="${id}-fan2"></g><ellipse cx="418" cy="-10" rx="10" ry="14" fill="#ff9a5a" stroke="${O}" stroke-width="4"/></g></g>
+  </g></g></g>`;
+}
+// front view of the light plane: high wing on top, prop disc in front, ailerons at the tips (hinged at ±360), landing gear
+function avCessnaFront(id: string, x: number, y: number, s = 1, o: { ail?: boolean } = {}) {
+  const O = '#22252e', ail = (sd: number) => `<g id="${id}-ail${sd > 0 ? 'R' : 'L'}"><path d="M${360 * sd} -104 L${470 * sd} -104 L${470 * sd} -82 L${360 * sd} -82Z" fill="url(#gOr)" stroke="${O}" stroke-width="4"/></g>`;
+  return `<g id="${id}"><g transform="translate(${x} ${y}) scale(${s})"><g id="${id}-body">
+    <path d="M-6 -100 L-12 -230 L12 -230 L6 -100Z" fill="url(#gW)" stroke="${O}" stroke-width="4"/>
+    <path d="M-470 -104 L470 -104 L470 -82 L-470 -82Z" fill="url(#gW)" stroke="${O}" stroke-width="4"/><path d="M-60 -60 L-260 -90 M60 -60 L260 -90" stroke="${O}" stroke-width="8"/>
+    <g id="${id}-ails"${avVis(!!o.ail)}>${ail(1)}${ail(-1)}</g>
+    <path d="M-40 60 L-110 140 M40 60 L110 140" stroke="${O}" stroke-width="10"/><circle cx="-112" cy="148" r="22" fill="#2b2f3a"/><circle cx="112" cy="148" r="22" fill="#2b2f3a"/>
+    <ellipse cx="0" cy="-10" rx="90" ry="96" fill="url(#gBody)" stroke="${O}" stroke-width="5"/><path d="M-60 -60 Q0 -84 60 -60 L54 -36 Q0 -54 -54 -36Z" fill="#7cc0f5" stroke="${O}" stroke-width="4"/>
+    <circle cx="0" cy="20" r="34" fill="url(#gOr)" stroke="${O}" stroke-width="4"/><circle cx="0" cy="20" r="130" fill="#dfe6ef" opacity="0.25"/><g transform="translate(0 20)"><g id="${id}-fan0"><rect x="-6" y="-128" width="12" height="256" rx="6" fill="#2b2f3a" opacity="0.8"/></g></g><g id="${id}-fan1"></g><circle cx="0" cy="20" r="12" fill="#ff9a5a" stroke="${O}" stroke-width="4"/>
+  </g></g></g>`;
+}
+// top view (nose up): straight high wing, tail plane, the rudder at the very end (hinged at y = 330), prop at the nose
+function avCessnaTop(id: string, x: number, y: number, s = 1) {
+  const O = '#22252e';
+  return `<g id="${id}"><g transform="translate(${x} ${y}) scale(${s})"><g id="${id}-body">
+    <path d="M-30 250 L-170 270 L-170 310 L-30 300 L30 300 L170 310 L170 270 L30 250Z" fill="url(#gW)" stroke="${O}" stroke-width="4"/>
+    <path d="M0 -380 C 40 -380, 56 -320, 56 -260 L30 320 C 20 340, -20 340, -30 320 L-56 -260 C -56 -320, -40 -380, 0 -380Z" fill="url(#gBody)" stroke="${O}" stroke-width="5"/>
+    <path d="M-470 -150 L470 -150 L470 -70 L-470 -70Z" fill="url(#gW)" stroke="${O}" stroke-width="4"/><path d="M-470 -80 L-380 -80 M380 -80 L470 -80" stroke="#ff7a3d" stroke-width="10"/>
+    <rect x="-8" y="-404" width="16" height="30" fill="url(#gOr)" stroke="${O}" stroke-width="3"/><rect x="-120" y="-412" width="240" height="10" rx="5" fill="#2b2f3a" opacity="0.6"/>
+    <rect x="-6" y="200" width="12" height="130" fill="url(#gW)" stroke="${O}" stroke-width="3"/><g id="${id}-rudM"><rect x="-6" y="330" width="12" height="40" fill="url(#gOr)" stroke="${O}" stroke-width="3"/></g>
+    <text x="0" y="-100" text-anchor="middle" font-size="46" font-weight="900" font-style="italic" fill="#1b3fb0" style="font-family: var(--font), system-ui, sans-serif">IDIO-TWO</text>
+  </g></g></g>`;
+}
+// a big red gift bow (for the "prize")
+function avBow(id: string, x: number, y: number, s = 1) {
+  const O = '#22252e';
+  return `<g id="${id}"><g transform="translate(${x} ${y}) scale(${s})"><path d="M0 0 C -60 -80, -150 -60, -120 0 C -150 60, -60 70, 0 0Z" fill="#ff3d57" stroke="${O}" stroke-width="5"/><path d="M0 0 C 60 -80, 150 -60, 120 0 C 150 60, 60 70, 0 0Z" fill="#ff3d57" stroke="${O}" stroke-width="5"/>
+    <path d="M-10 6 L-50 110 L-20 96 L0 120 Z M10 6 L50 110 L20 96 L0 120Z" fill="#e02443" stroke="${O}" stroke-width="5" stroke-linejoin="round"/><circle r="26" fill="#ff5a6e" stroke="${O}" stroke-width="5"/></g></g>`;
+}
+// golden prize rays behind something (rotating group #id)
+const avRays = (id: string, x: number, y: number) => `<g transform="translate(${x} ${y})"><g id="${id}">${[...Array(16)].map((_, i) => `<path d="M0 0 L${(Math.cos(i * Math.PI / 8) * 1400).toFixed(0)} ${(Math.sin(i * Math.PI / 8) * 1400).toFixed(0)} L${(Math.cos(i * Math.PI / 8 + 0.12) * 1400).toFixed(0)} ${(Math.sin(i * Math.PI / 8 + 0.12) * 1400).toFixed(0)}Z" fill="#ffd84a" opacity="0.55"/>`).join('')}</g></g>`;
+const avConfetti = (n = 36) => `<g id="confetti">${[...Array(n)].map((_, i) => { const x = 120 + (i * 137) % 840, y = 520 + (i * 97) % 260, c = ['#ff5a5f', '#ffd23d', '#3ccf91', '#4c7dff', '#ff8a3d', '#8b6cff'][i % 6]; return `<g class="bit"><g transform="translate(${x} ${y}) rotate(${(i * 47) % 360}) scale(1.8)">${i % 3 === 0 ? `<circle r="8" fill="${c}"/>` : `<rect x="-9" y="-5" width="18" height="10" rx="3" fill="${c}"/>`}</g></g>`; }).join('')}</g>`;
+// the cabin seen from the side: curved wall, overhead bins, oval windows with moving sky (#winSky), rows of seats; seat i at x = 150 + i * 260
+function avCabin(n = 4) {
+  const seatX = (i: number) => 150 + i * 260;
+  const wins = [...Array(4)].map((_, i) => `<g transform="translate(${seatX(i) + 60} 860)"><rect x="-58" y="-86" width="116" height="172" rx="56" fill="#cfc8b8" stroke="#8f8878" stroke-width="6"/><rect x="-44" y="-70" width="88" height="140" rx="44" fill="url(#gSky)"/>
+    <g clip-path="url(#winClip${i})"><g class="winSky">${avCloud(0, 10, 0.25)}${avCloud(120, -30, 0.2)}${avCloud(-120, 30, 0.22)}</g></g><clipPath id="winClip${i}"><rect x="-44" y="-70" width="88" height="140" rx="44"/></clipPath></g>`).join('');
+  return `<rect width="1080" height="1920" fill="#d9d1c2"/><path d="M0 520 C 300 470, 780 470, 1080 520 L1080 700 L0 700Z" fill="#ece6da" stroke="#b8b0a0" stroke-width="6"/>
+    ${[...Array(4)].map((_, i) => `<rect x="${i * 270 + 10}" y="560" width="250" height="120" rx="14" fill="#f4efe6" stroke="#b8b0a0" stroke-width="5"/><rect x="${i * 270 + 100}" y="648" width="70" height="10" rx="5" fill="#b8b0a0"/>`).join('')}
+    <rect x="0" y="700" width="1080" height="12" fill="#fff6d8" opacity="0.8"/>${wins}
+    <rect x="0" y="1500" width="1080" height="420" fill="#3d4a6b"/><rect x="0" y="1500" width="1080" height="14" fill="#2b3550"/>${[...Array(12)].map((_, i) => `<circle cx="${(i * 97) % 1080}" cy="${1560 + (i * 53) % 300}" r="6" fill="#4a5880"/>`).join('')}
+    <g id="seatBacks">${[...Array(n)].map((_, i) => `<g transform="translate(${seatX(i)} 0)"><path d="M-110 1340 L-128 1060 Q-130 1030 -100 1030 L-70 1030 Q-46 1030 -48 1060 L-40 1340Z" fill="#2f5fd9" stroke="${AV.o}" stroke-width="6"/><rect x="-126" y="1030" width="80" height="60" rx="16" fill="#e9eef5" stroke="${AV.o}" stroke-width="5"/></g>`).join('')}</g>`;
+}
+// the front part of a seat (cushion, armrest and pedestal) that covers the sitter's legs; belt optional
+function avSeatFront(i: number, belt = false, id = '') {
+  const x = 150 + i * 260;
+  return `<g transform="translate(${x} 0)"><rect x="-120" y="1320" width="200" height="60" rx="18" fill="#2f5fd9" stroke="${AV.o}" stroke-width="6"/><rect x="-120" y="1380" width="200" height="120" fill="#24489f" stroke="${AV.o}" stroke-width="6"/>
+    <rect x="-120" y="1270" width="40" height="70" rx="10" fill="#b8c0cf" stroke="${AV.o}" stroke-width="5"/>${belt ? `<g id="${id}"><rect x="-90" y="1296" width="170" height="26" rx="8" fill="#ff7a3d" stroke="${AV.o}" stroke-width="5"/><rect x="-14" y="1292" width="34" height="34" rx="6" fill="#cfd4dd" stroke="${AV.o}" stroke-width="5"/></g>` : ''}</g>`;
 }
